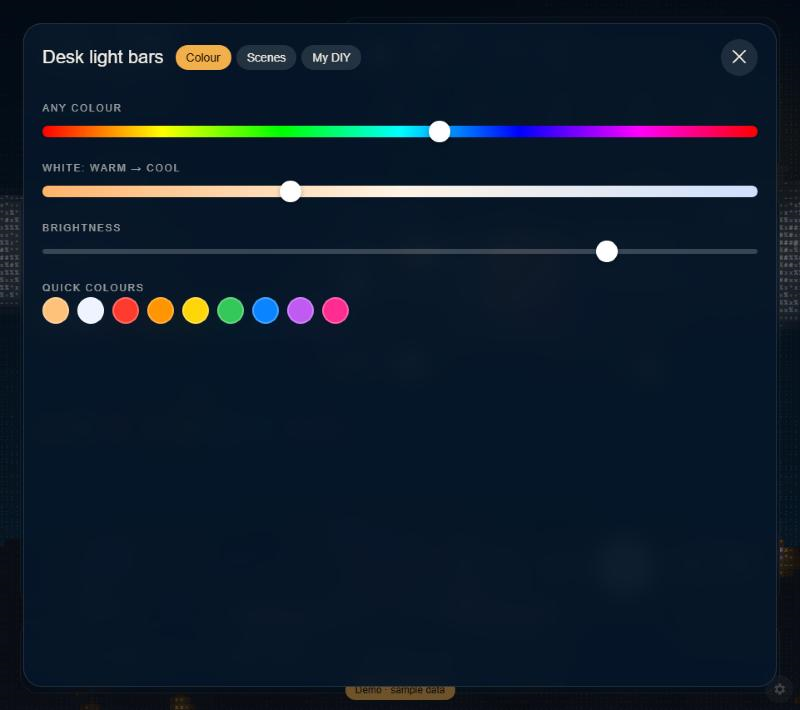
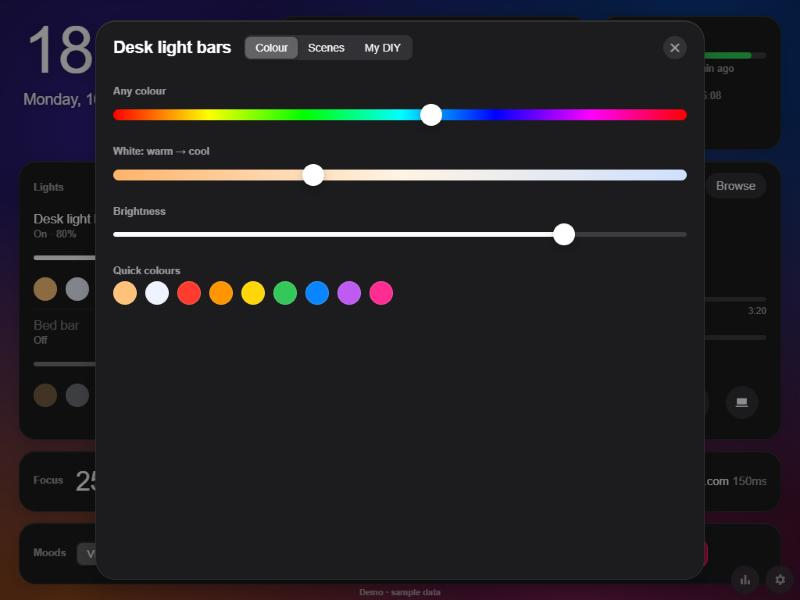
README: screenshots and feature list for the redesign

diff --git a/README.md b/README.md
@@ -16,8 +16,8 @@ It runs on sample data: every button works, and nothing touches real devices.
 | Any colour, warm/cool white | Govee scenes | Resizable layout |
 |---|---|---|
 | ![Colour picker](docs/colour.png) | ![Govee scenes](docs/themes.png) | ![Edit layout](docs/edit-layout.png) |
-| **Your playlists** | **Search** | **Move playback between devices** |
-| ![Spotify playlists](docs/spotify-browse.png) | ![Spotify search](docs/search.png) | ![Spotify devices](docs/devices.png) |
+| **Your playlists** | **Search** | **Usage stats** |
+| ![Spotify playlists](docs/spotify-browse.png) | ![Spotify search](docs/search.png) | ![Usage stats](docs/stats.png) |
 
 ## Features
 
@@ -25,14 +25,15 @@ It runs on sample data: every button works, and nothing touches real devices.
 - **Spotify:** now playing with album art and live progress, play/pause/skip, volume, shuffle, your playlists and Liked Songs, search, and moving playback between devices (phone, PC, Echo…).
 - **Weather:** current conditions plus a 5-day forecast from Open-Meteo, with no API key.
 - **Uptime:** a live up/down status and response time for any list of websites.
-- **Moods:** thirteen one-tap colourways (Sunset, Ocean, Cyberpunk, Candle…) that deal their colours out across all the lights and set the brightness to match.
+- **Moods:** twenty-four one-tap colourways in three sets (Vivid, Soft and White) that deal their colours out across all the lights and set the brightness to match.
 - **Lights follow the music:** one tap and the lights take the dominant colour of the current album art, worked out on a canvas in the page.
 - **Focus timer:** a 25/5 Pomodoro timer that turns the lights red while you focus and green on the break, then puts them back the way they were.
 - **Phone status:** an iOS Shortcut reports the phone's battery level and when you arrive home or leave.
 - **Photo frame:** after five idle minutes the dashboard becomes a slideshow of an iCloud Shared Album, with the clock on top. Tap to return.
 - **Usage stats:** every song played, scene picked and focus session finished is logged to a Supabase (Postgres) database; a stats page shows top songs, top scenes and a 14-day activity chart.
 - **Customisable layout:** move, resize and hide every card on the iPad itself. The layout is saved on the device, and cards hide their extras automatically when they get small.
-- **Generated background:** a landscape drawn entirely from text characters on a canvas, created procedurally with value noise, so there are no image assets.
+- **iOS-style design:** Apple's dark system colours, SF type, translucent materials, iOS switches, filled sliders, segmented controls and form sheets, all in plain CSS that Safari 12 can run.
+- **Generated wallpapers:** a soft colour mesh, or a landscape drawn entirely from text characters with value noise. Both are drawn on a canvas, so there are no image assets.
 
 ## How it works
 
